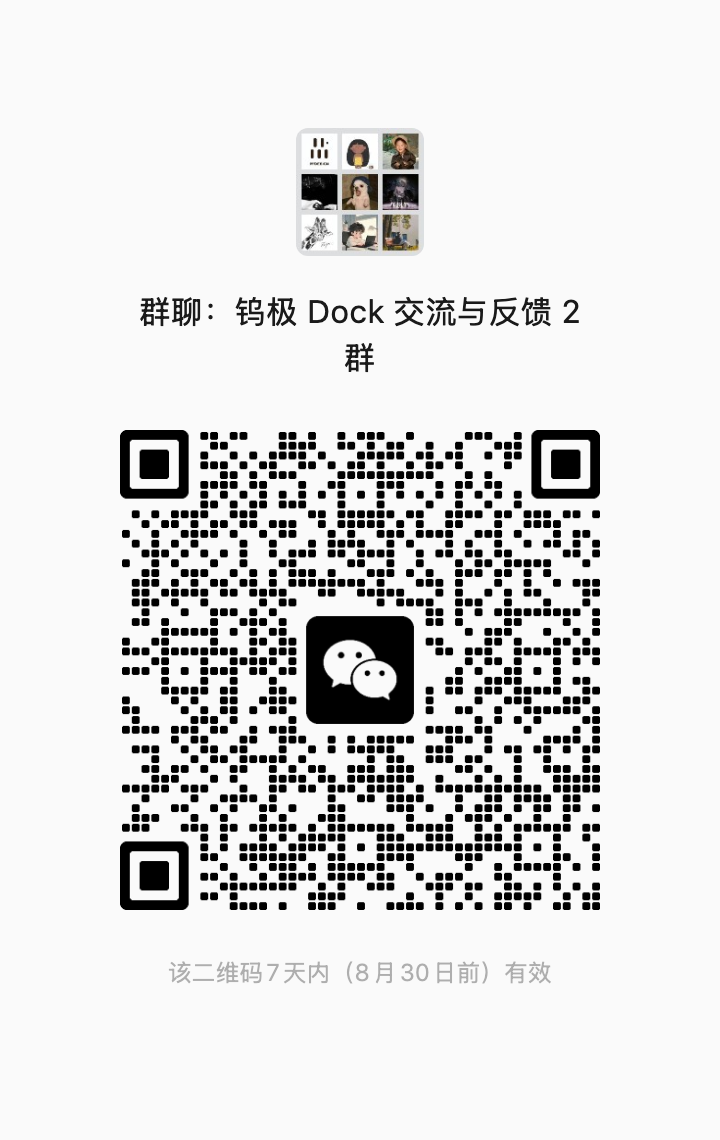
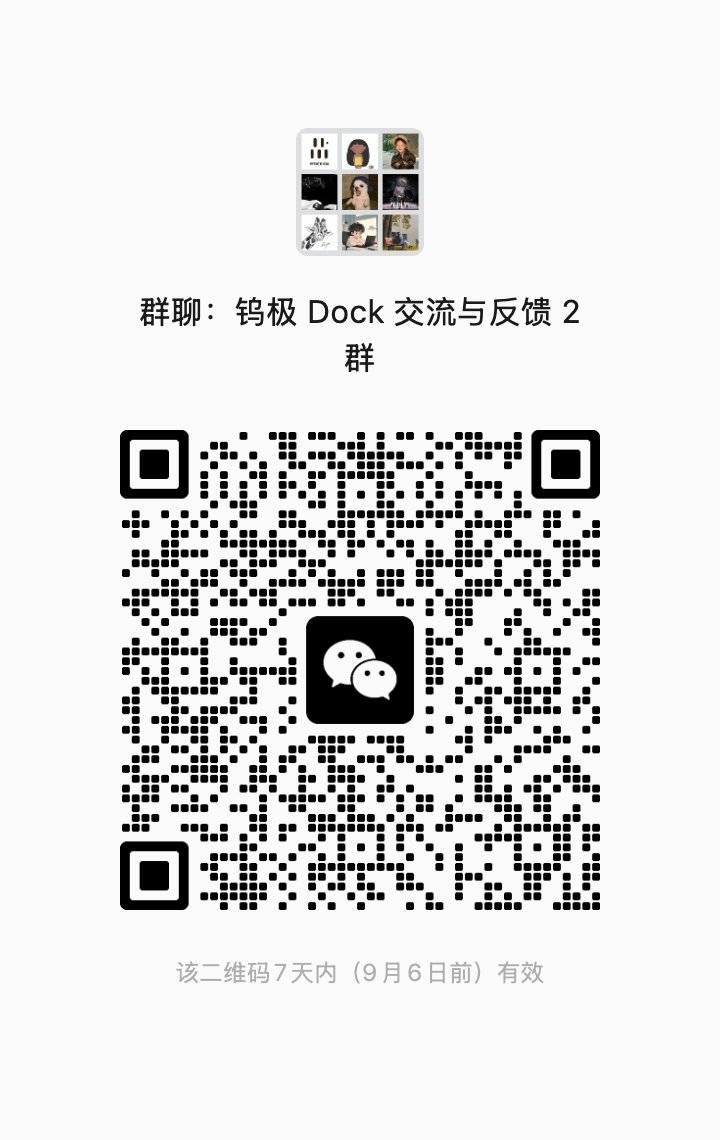
Replace the three demo GIFs with one taskbar clip
The README opened with three separate GIFs -- multi-window, launcher and
drag-reorder -- adding up to 7.4 MB. They are now one 6.8 MB clip taken
from the homepage's first feature block, which covers the same ground
with captions and ends on the wordmark.

Dropping the launcher tile also removes a wrong label: that GIF showed
the drawer, not a launchpad, and the app has no launchpad at all.

The WeChat group QR code is refreshed (the old one had expired).

Claude-Session: https://claude.ai/code/session_01RuuJ7DPyiRd4jbXY99mKu3

Changed region(s): [[0.1528, 0.3684, 0.8556, 0.7982], [0.3056, 0.8289, 0.7639, 0.8596], [0.2444, 0.8289, 0.275, 0.8596]]

diff --git a/README.md b/README.md
@@ -18,20 +18,7 @@ Ready-to-run builds live on the [official website](https://tungstenedge.app). Th
 
 ## Demo
 
-**Multi-window management**
-
-<img src="assets/multi-window.gif" alt="Multi-window management" width="100%" />
-
-<table>
-  <tr>
-    <td align="center"><b>App drawer &amp; launcher</b></td>
-    <td align="center"><b>Drag to organize</b></td>
-  </tr>
-  <tr>
-    <td><img src="assets/launcher.gif" alt="App drawer &amp; launcher" /></td>
-    <td><img src="assets/drag-reorder.gif" alt="Drag to organize" /></td>
-  </tr>
-</table>
+<img src="assets/demo.gif" alt="Tungsten Edge taskbar demo" width="100%" />
 
 ---
 

diff --git a/README.zh-CN.md b/README.zh-CN.md
@@ -18,20 +18,7 @@
 
 ## 演示
 
-**多窗口管理**
-
-<img src="assets/multi-window.gif" alt="多窗口管理" width="100%" />
-
-<table>
-  <tr>
-    <td align="center"><b>启动台功能</b></td>
-    <td align="center"><b>随意拖拽</b></td>
-  </tr>
-  <tr>
-    <td><img src="assets/launcher.gif" alt="启动台功能" /></td>
-    <td><img src="assets/drag-reorder.gif" alt="随意拖拽" /></td>
-  </tr>
-</table>
+<img src="assets/demo.gif" alt="钨极 Dock 栏演示" width="100%" />
 
 ---
 
